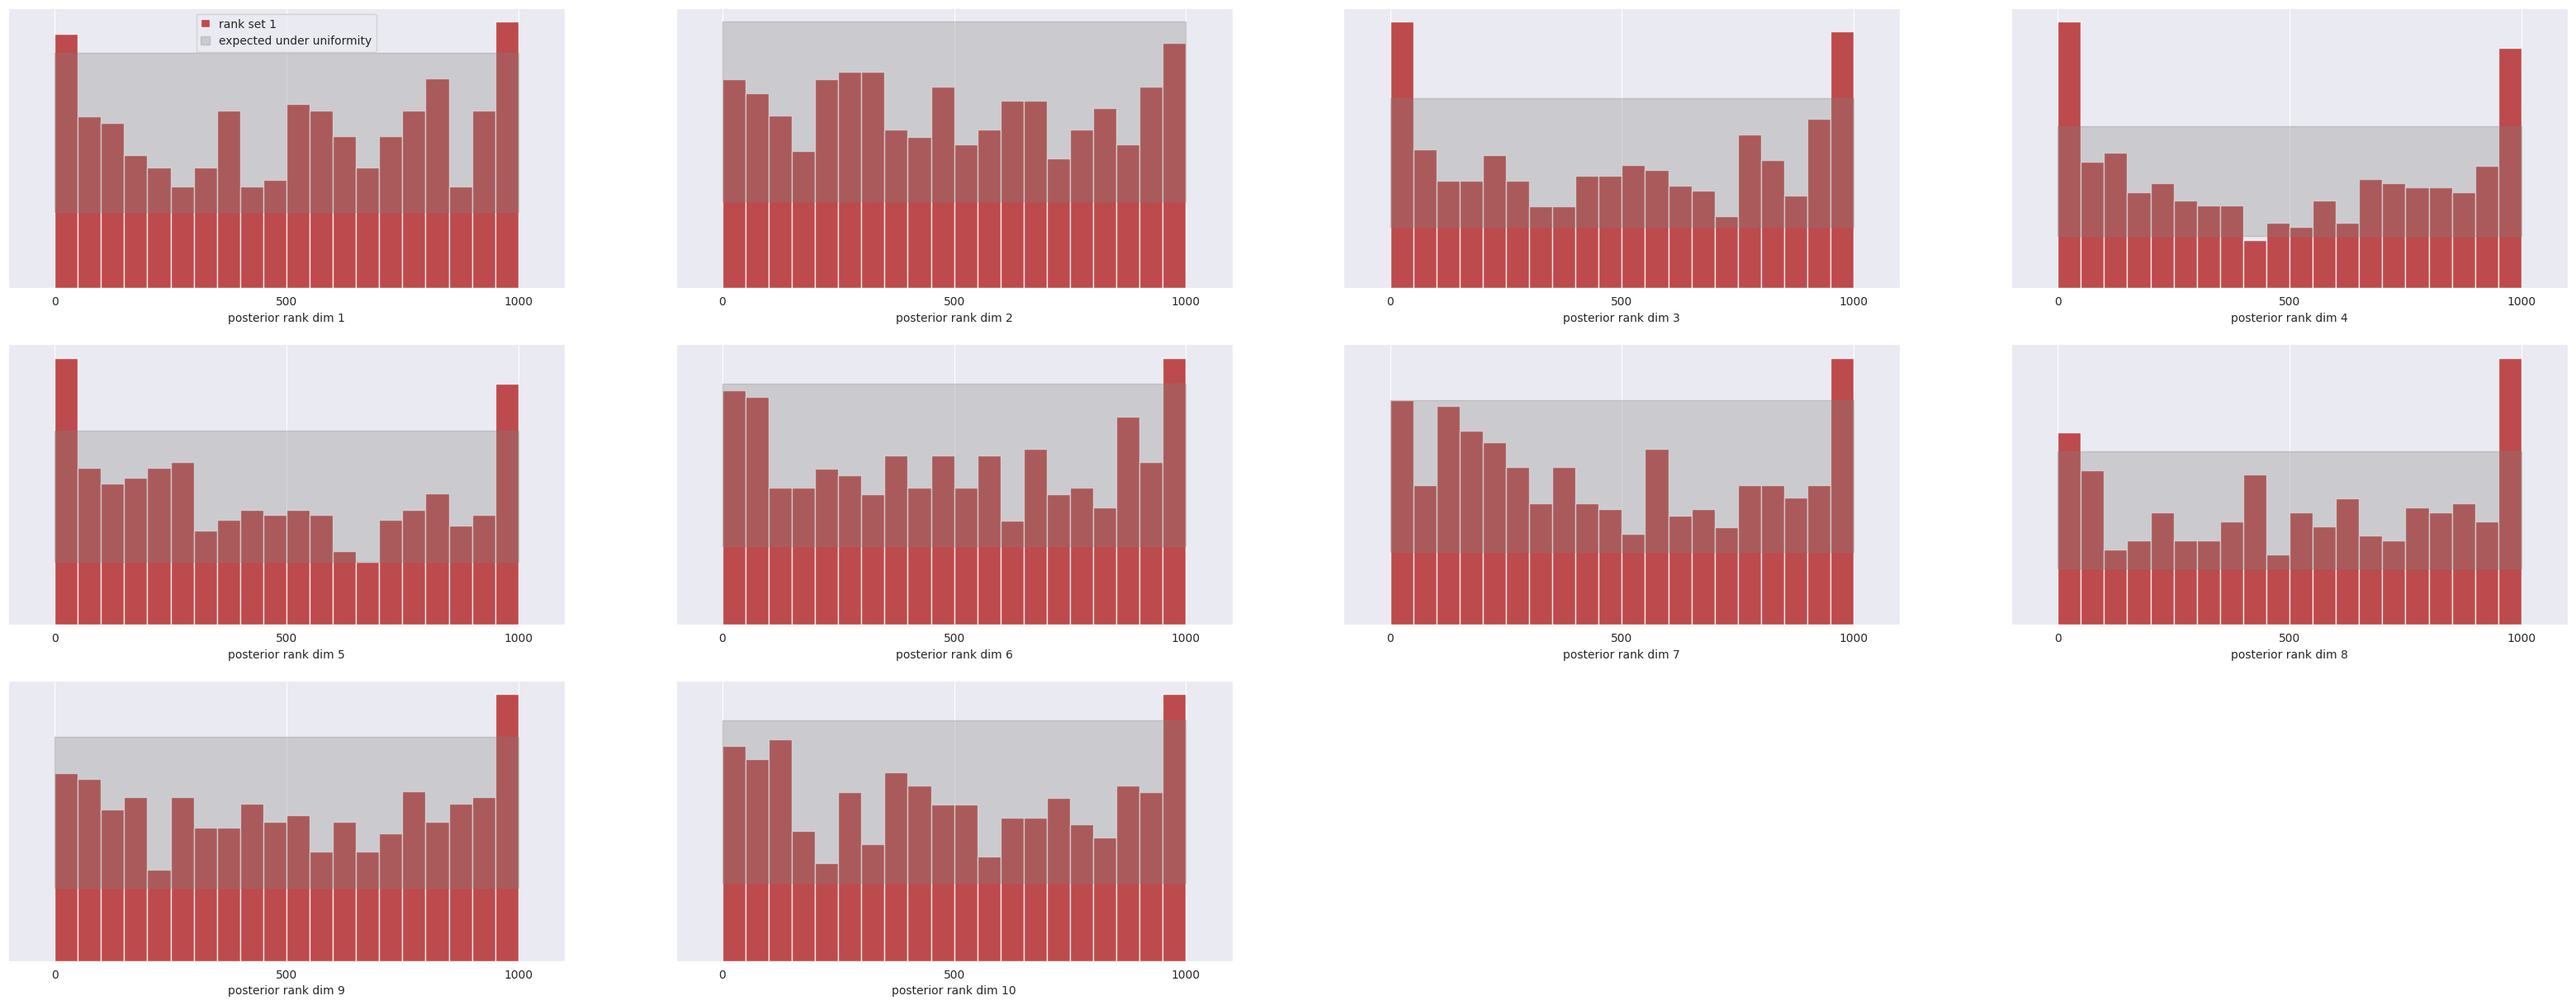
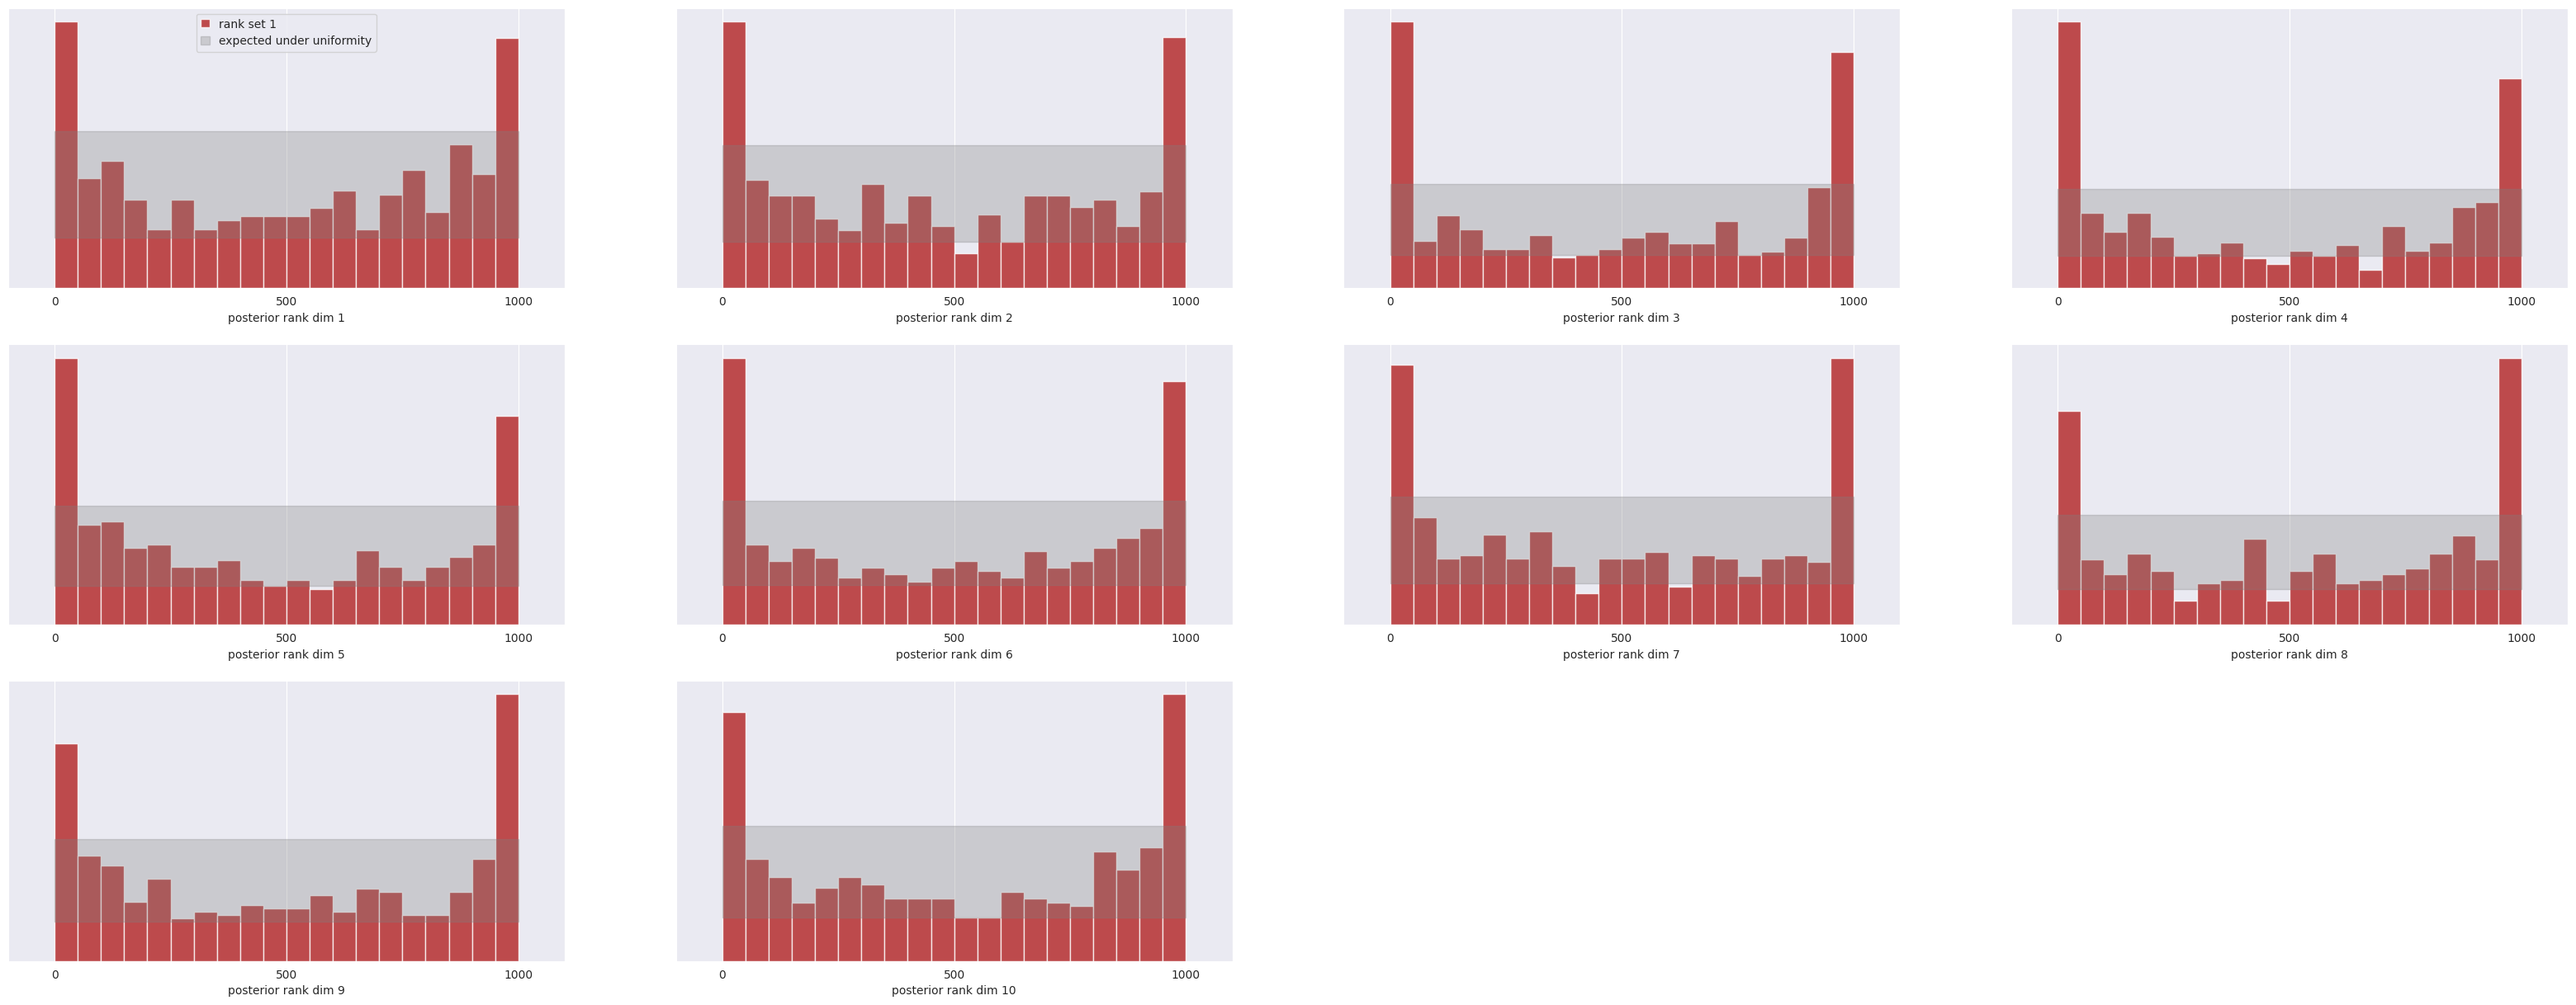
wip

diff --git a/examples/sbi-benchmarks/slcp/flow_flux/README.md b/examples/sbi-benchmarks/slcp/flow_flux/README.md
@@ -23,10 +23,10 @@ This document provides a summary of the `flux` model trained on the `slcp` datas
 | `vec_in_dim` | `None` |
 | `context_in_dim` | `1` |
 | `mlp_ratio` | `4` |
-| `num_heads` | `4` |
+| `num_heads` | `6` |
 | `depth` | `8` |
 | `depth_single_blocks` | `16` |
-| `axes_dim` | `[20]` |
+| `axes_dim` | `[10]` |
 | `qkv_bias` | `True` |
 | `params_dtype` | `bfloat16` |
 | `id_embedding_strategy` | `['absolute', 'absolute']` |
@@ -42,8 +42,8 @@ This document provides a summary of the `flux` model trained on the `slcp` datas
 | `early_stopping` | `True` |
 | `val_every` | `100` |
 | `experiment_id` | `1` |
-| `restore_model` | `True` |
-| `train_model` | `False` |
+| `restore_model` | `False` |
+| `train_model` | `True` |
 | `warmup_steps` | `500` |
 | `decay_transition` | `0.6` |
 | `max_lr` | `0.0004` |
@@ -53,7 +53,7 @@ This document provides a summary of the `flux` model trained on the `slcp` datas
 
 The model's performance is evaluated using the Classifier 2-Sample Test (C2ST). An accuracy score close to 0.5 indicates that the generated samples are highly similar to the true data distribution.
 
-- **Average C2ST Accuracy:** 0.825 ± 0.079
+- **Average C2ST Accuracy:** 0.790 ± 0.054
 
 ---
 *This model card was automatically generated.*

diff --git a/examples/sbi-benchmarks/bernoulli_glm/flow_flux/README.md b/examples/sbi-benchmarks/bernoulli_glm/flow_flux/README.md
@@ -23,10 +23,10 @@ This document provides a summary of the `flux` model trained on the `bernoulli_g
 | `vec_in_dim` | `None` |
 | `context_in_dim` | `1` |
 | `mlp_ratio` | `4` |
-| `num_heads` | `4` |
+| `num_heads` | `6` |
 | `depth` | `8` |
 | `depth_single_blocks` | `16` |
-| `axes_dim` | `[10]` |
+| `axes_dim` | `[20]` |
 | `qkv_bias` | `True` |
 | `theta` | `40` |
 | `params_dtype` | `bfloat16` |
@@ -43,8 +43,8 @@ This document provides a summary of the `flux` model trained on the `bernoulli_g
 | `early_stopping` | `True` |
 | `val_every` | `100` |
 | `experiment_id` | `1` |
-| `restore_model` | `True` |
-| `train_model` | `False` |
+| `restore_model` | `False` |
+| `train_model` | `True` |
 | `warmup_steps` | `500` |
 | `decay_transition` | `0.6` |
 | `rtol` | `0.0001` |
@@ -55,7 +55,7 @@ This document provides a summary of the `flux` model trained on the `bernoulli_g
 
 The model's performance is evaluated using the Classifier 2-Sample Test (C2ST). An accuracy score close to 0.5 indicates that the generated samples are highly similar to the true data distribution.
 
-- **Average C2ST Accuracy:** 0.669 ± 0.053
+- **Average C2ST Accuracy:** 0.817 ± 0.054
 
 ---
 *This model card was automatically generated.*
